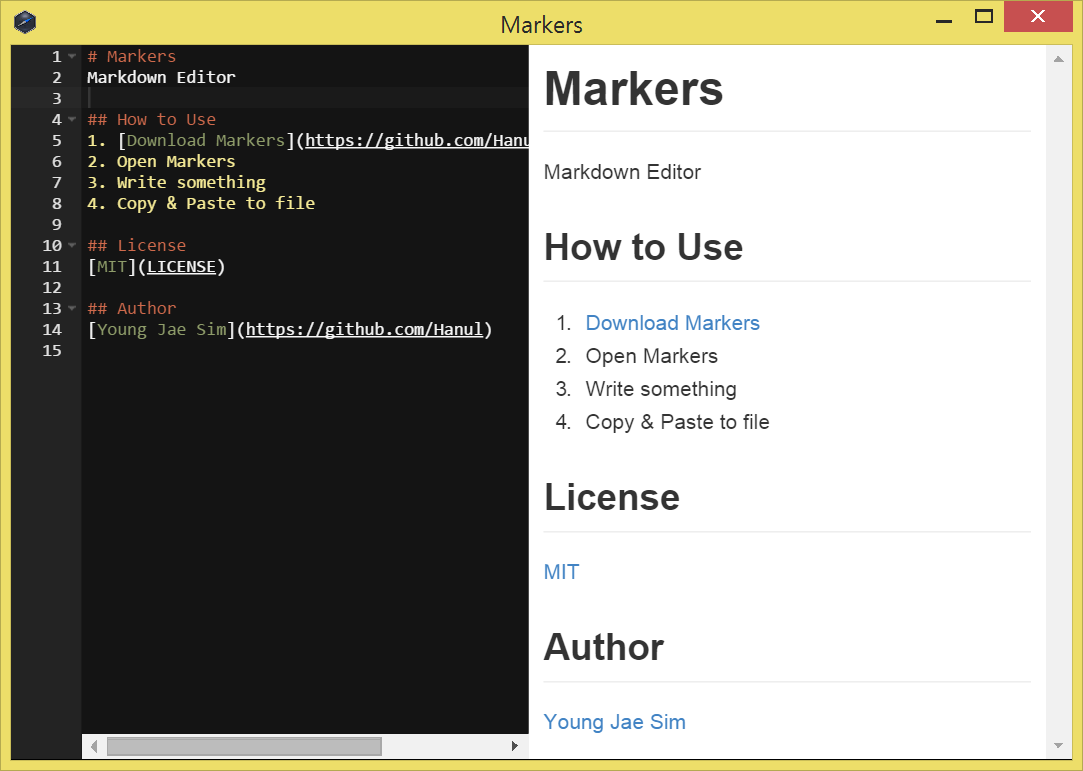
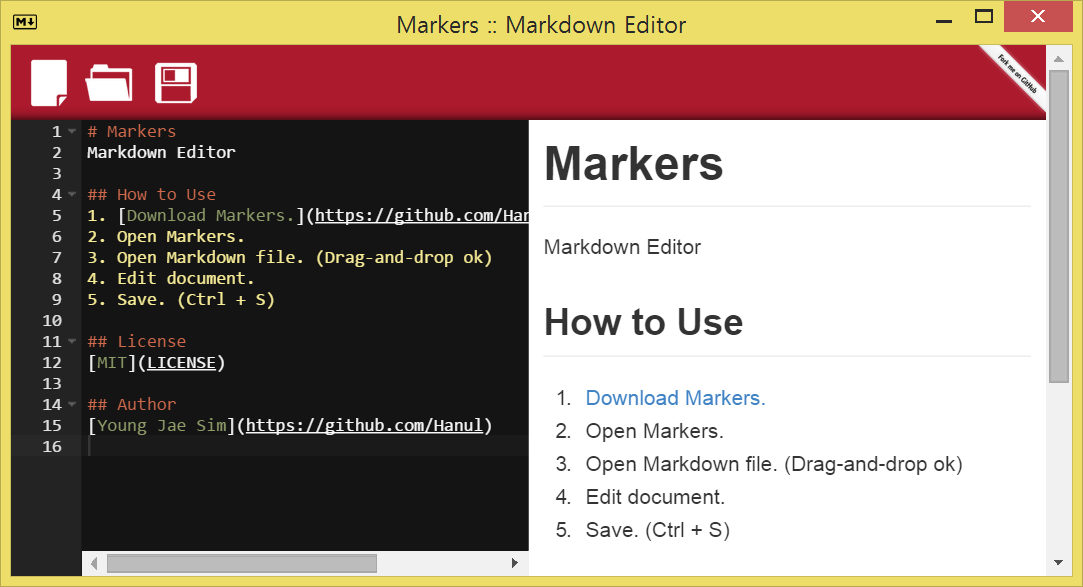
drag&drop

diff --git a/MAIN.js b/MAIN.js
@@ -261,6 +261,22 @@ global.MAIN = METHOD({
 			}, 500);
 		});
 		
+		global.ondragover = function(e) {
+			
+			e.preventDefault();
+			
+			return false;
+		};
+		
+		global.ondrop = function(e) {
+			
+			loadFile(e.dataTransfer.files[0]);
+			
+			e.preventDefault();
+			
+			return false;
+		};
+		
 		global.onkeydown = function(e) {
 				
 			if (e.keyCode === 83 && (navigator.platform.match('Mac') ? e.metaKey : e.ctrlKey) === true) {
@@ -272,5 +288,15 @@ global.MAIN = METHOD({
 			    return false;
 			}
 		};
+		
+		if (gui.App.argv[0] !== undefined) {
+			
+			nowFilePath = gui.App.argv[0];
+			
+			nodeGlobal.READ_FILE(nowFilePath, function(buffer) {
+				originContent = buffer.toString();
+				aceEditor.setValue(originContent, 1);
+			});
+		}
 	}
 });

diff --git a/README.md b/README.md
@@ -4,10 +4,11 @@ Markdown Editor
 ![ScreenShot](https://raw.githubusercontent.com/Hanul/Markers/master/Markers.png)
 
 ## How to Use
-1. [Download Markers](https://github.com/Hanul/Markers/releases)
-2. Open Markers
-3. Write something
-4. Copy & Paste to file
+1. [Download Markers.](https://github.com/Hanul/Markers/releases)
+2. Open Markers.
+3. Open Markdown file. (Drag-and-drop ok)
+4. Edit document.
+5. Save. (Ctrl + S)
 
 ## License
 [MIT](LICENSE)
